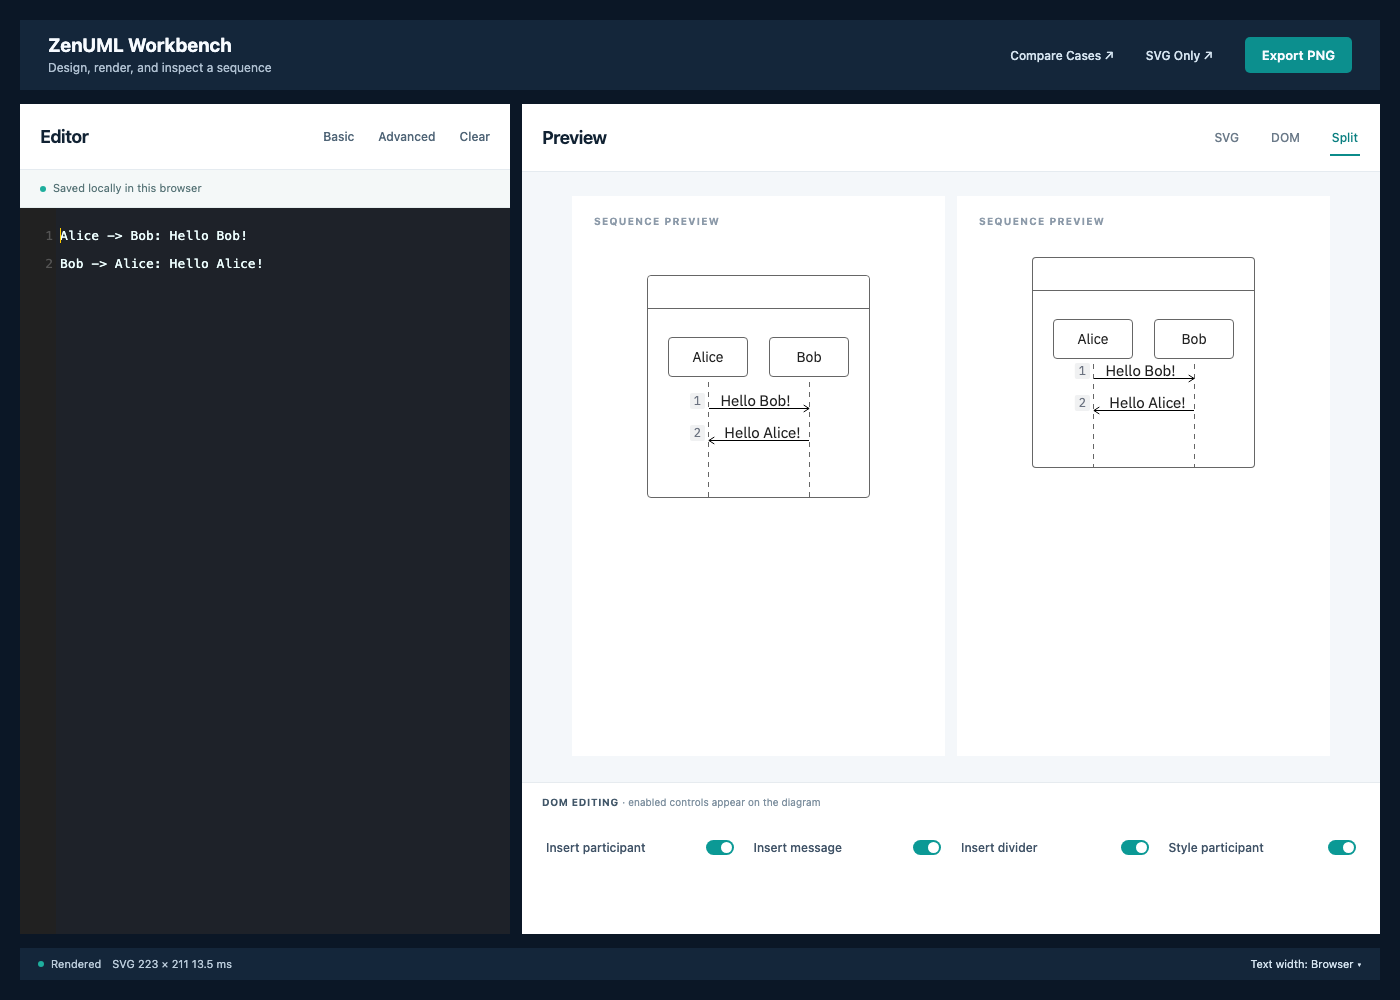
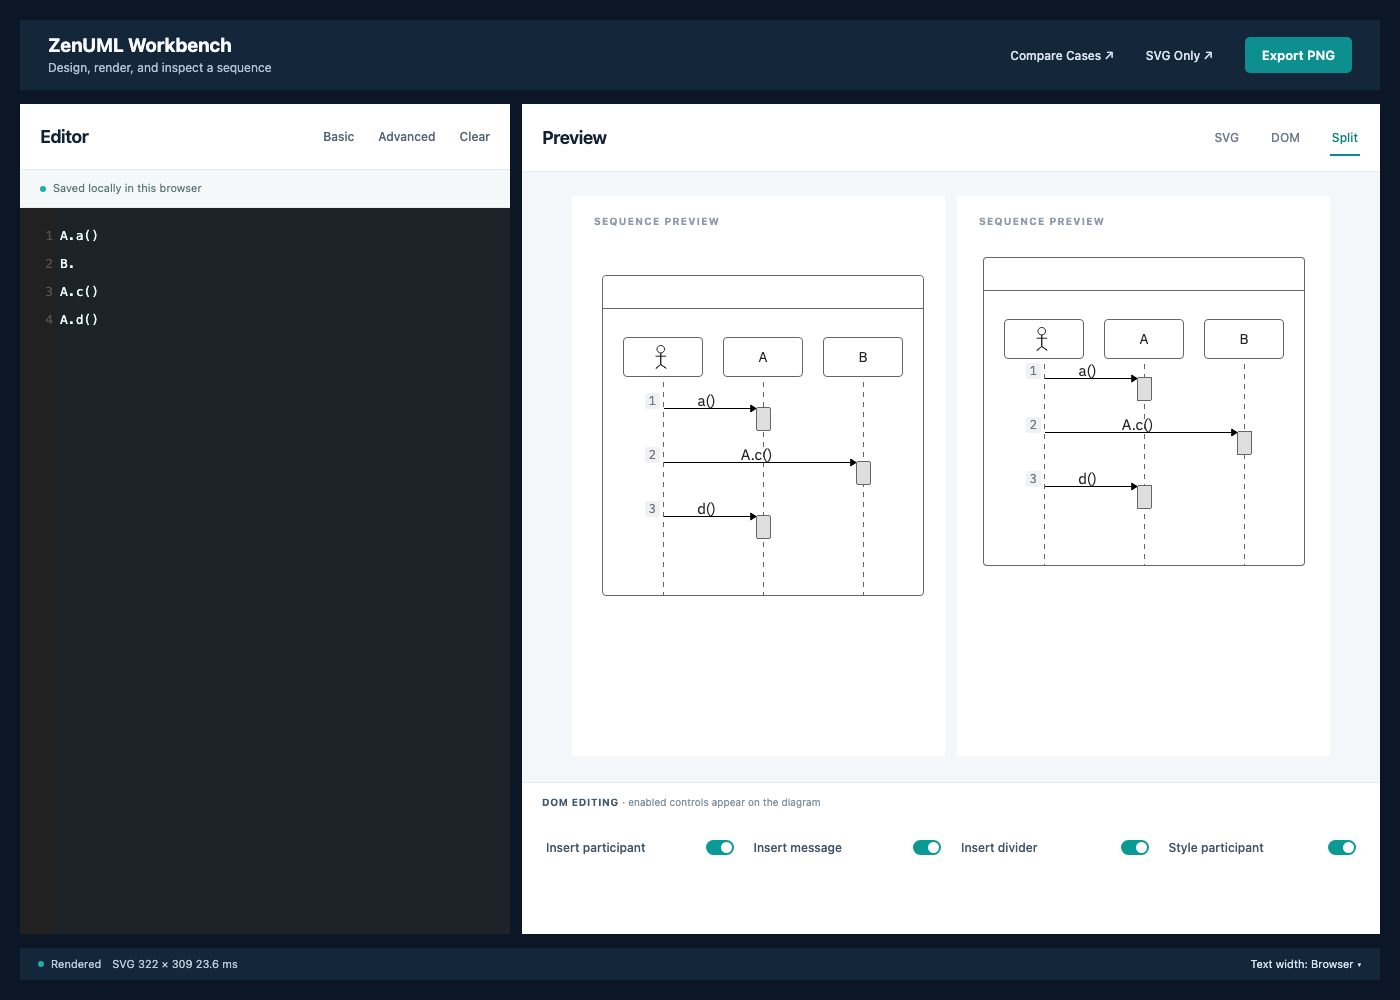
fix(parser): drop a trailing dot after a chain member instead of ending the message there
`A.b().c.` + `d.e()` rendered one message labelled `b().c.;d.e()`, and
`A.b.` + `c.d()` rendered three messages with a phantom participant `b`.
The zero-width `;` only ends a message when the dot follows the target
(`B.`). After a chain member the dot is now dropped, as for `b(x).`.

Also replaces the e4 "before" screenshot, which showed the default
workbench example instead of the DSL under test.

diff --git a/src/parser/IncompleteCall.spec.ts b/src/parser/IncompleteCall.spec.ts
@@ -209,8 +209,38 @@ describe("a trailing dot before a line that starts a new statement (#671)", () =
         ["A", "c()"],
       ],
     ],
+    // A dot after a chain member, not after the target: the dot is dropped.
+    [
+      "A.b().c.\nd.e()",
+      [
+        ["A", "b().c"],
+        ["d", "e()"],
+      ],
+    ],
+    [
+      "A.b.\nc.d()",
+      [
+        ["A", "b"],
+        ["c", "d()"],
+      ],
+    ],
+    [
+      "A->B.c.\nD.e()",
+      [
+        ["B", "c"],
+        ["D", "e()"],
+      ],
+    ],
   ])("%j", (code, expected) => {
     expect(statements(code)).toEqual(expected);
+  });
+
+  it("reports the dot after a chain member", () => {
+    const result = parse("A.b().c.\nd.e()");
+    expect(result.pass).toBe(false);
+    expect(result.errorDetails).toEqual([
+      { line: 1, column: 7, msg: "extraneous '.' at the end of this line" },
+    ]);
   });
 
   it("keeps a fragment on the next line", () => {
@@ -249,6 +279,7 @@ describe("valid multi-line DSL is unchanged (#671)", () => {
     ["B.c.d()", [["B", "c.d()"]]],
     ["B.b(x).c.d()", [["B", "b(x).c.d()"]]],
     ["A.b(x.\ny.z)", [["A", "b(x.y.z)"]]],
+    ["A.b(x.c.\ny.z)", [["A", "b(x.c.y.z)"]]],
     // A message that ends in a dot without a chain.
     ["B.", [["B", ""]]],
     [

diff --git a/src/parser/repairIncompleteCalls.ts b/src/parser/repairIncompleteCalls.ts
@@ -47,6 +47,7 @@ export interface RepairError {
  * | ----------------------|--------------------------|
  * | `B.` + `A.c()`        | `B.;` + `A.c()`          |
  * | `B.b(x).` + `A.c()`   | `B.b(x)` + `A.c()`       |
+ * | `B.b().c.` + `A.d()`  | `B.b().c` + `A.d()`      |
  *
  * @returns one error per repair, because the source is still incomplete.
  */
@@ -91,7 +92,9 @@ export function repairIncompleteCalls(stream: Token): RepairError[] {
     if (token.type === P.OPAR) depth++;
     else if (token.type === P.CPAR) depth = Math.max(0, depth - 1);
     if (depth === 0 && isDanglingTargetDot(visible, index)) {
-      toTerminateAfter.push(token);
+      // `A.b.` names a chain member, not the target: drop the dot, as in `b(x).`.
+      if (visible[index - 2]?.type === P.DOT) toRemove.add(token);
+      else toTerminateAfter.push(token);
       errors.push({
         line: token.line,
         column: token.column,
